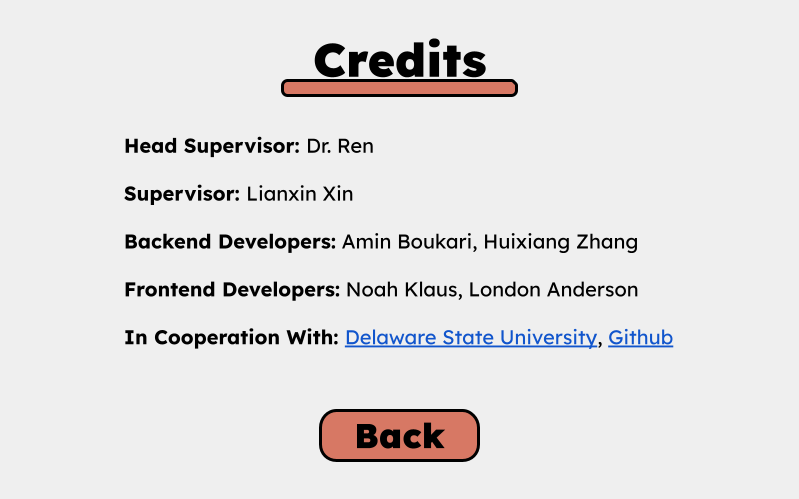
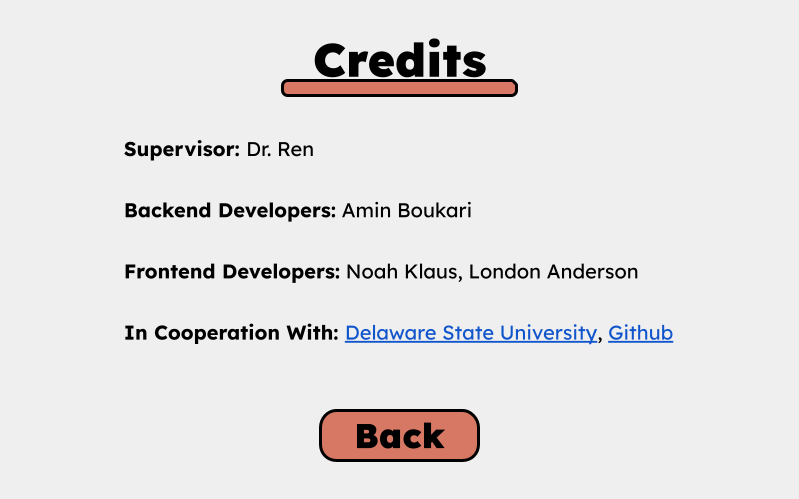
Cleaned up some of the codebase and updated the credits menu

Changed region(s): [[0.1502, 0.3607, 0.811, 0.6012], [0.1502, 0.6313, 0.8411, 0.7214], [0.1502, 0.2705, 0.4806, 0.3307]]

diff --git a/main.py b/main.py
@@ -34,7 +34,7 @@ def openDSUWebsite():  # Opens DSU's website
 # START - SCREEN
     # START - PYGAME WINDOW INIT.
 pygame.init()  # Init. Pygame
-normalScreenRatio = (800,500)  # Screen ratio and game window creation
+normalScreenRatio = (799,499)  # Screen ratio and game window creation (is supposed to be (800,500) but is smaller because of image conversion issues)
 normalWidth = normalScreenRatio[0]
 normalHeight = normalScreenRatio[1]
 screen = pygame.display.set_mode(normalScreenRatio)
@@ -117,12 +117,6 @@ def displayCreditsMenu(): # Displays the rough outline of a credits menu
     # Creation of the credit menu's background & placing of image on the screen
     creditsMenuBackground = pygame.image.load('Assets/Credits Menu.png').convert()
     screen.blit(creditsMenuBackground, (0, 0))
-    pygame.display.update()
-
-def displayMainMenuExitButtonClicked(): # Method that displays the exit button being clicked (NOT IMPLEMENTED)
-    # Creation of the main menu's background with the exit button blacked out & placing of image on the screen
-    mainMenuBackground = pygame.image.load('Assets/UnusedAssets/QuantumCheckersMainMenuExitButtonClicked.png').convert()
-    screen.blit(mainMenuBackground, (0, 0))
     pygame.display.update()
     # STOP - Display Methods
 
@@ -636,8 +630,8 @@ while running:  # GAME LOOP
                 # Level Select Menu Button Control Flow
                 if ( state == "levelSelectMenu" ):
                     if ( levelSelectMenuMainMenuButton(event) ): # Main menu button
-                        state = "mainMenu"
-                        displayMainMenu()
+                        displayExitGameplayMenu()
+                        state = "exitGameplayMenu"
                     if ( levelSelectMenuBackButton(event, level) ): # Back Button
                         state = "gamePlay"
                         displayBlankGameScreen()
